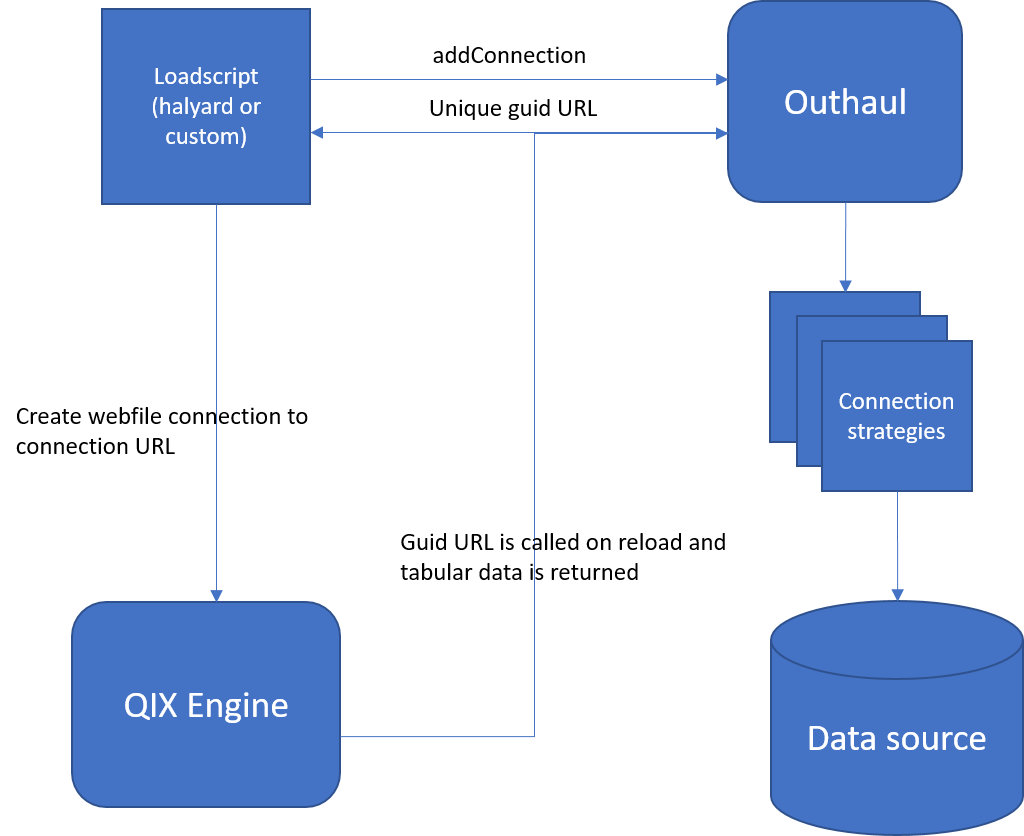
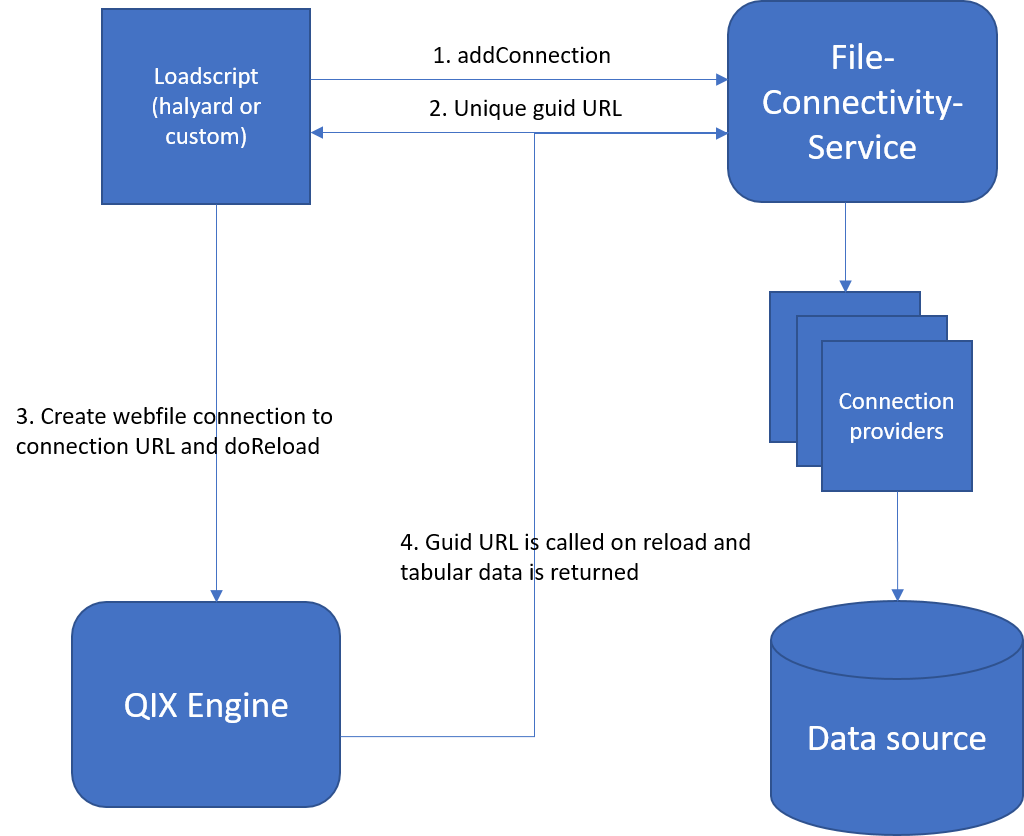
Rename (#61)
* Renamed strategies to providers

* added updated flow chart

diff --git a/src/outhaul.js b/src/outhaul.js
@@ -23,23 +23,23 @@ function outhaul(options) {
     port,
   } = options;
 
-  const strategies = [];
+  const providers = [];
 
   const authenticationCallback = '/oauth2/callback';
 
-  options.strategies.forEach((strategy) => {
-    if (strategy.getName) {
-      strategies[strategy.getName()] = strategy;
-      if (strategy.setupPassportStrategy) {
+  options.providers.forEach((provider) => {
+    if (provider.getName) {
+      providers[provider.getName()] = provider;
+      if (provider.setupPassportStrategy) {
         const callbackUrl = `http://localhost:3000/v1${authenticationCallback}`; // Refactor!!!,
-        const passportStrategy = strategy.setupPassportStrategy(callbackUrl);
+        const passportStrategy = provider.setupPassportStrategy(callbackUrl);
 
         if (passportStrategy) {
           passport.use(passportStrategy);
         }
       }
     } else {
-      logger.warn(`Failed to add strategy: ${strategy}`);
+      logger.warn(`Failed to add provider: ${provider}`);
     }
   });
 
@@ -192,10 +192,10 @@ function outhaul(options) {
     const input = ctx.request.body;
 
     if (input.connector) {
-      if (strategies[input.connector]) {
-        logger.debug('connector match ', strategies[input.connector]);
+      if (providers[input.connector]) {
+        logger.debug('connector match ', providers[input.connector]);
 
-        const connection = strategies[input.connector].newConnector(input.params);
+        const connection = providers[input.connector].newConnector(input.params);
 
         logger.debug('connection ', connection);
 

diff --git a/src/index.js b/src/index.js
@@ -4,22 +4,22 @@ const path = require('path');
 
 const logger = require('./logger').get();
 
-const strategies = [];
+const providers = [];
 
 // TODO: Make strategies path configurable with environment variable to enable the container to mount a volume of strategies
 
-const strategiesFolderPath = path.resolve(__dirname, 'strategies');
+const providersFolderPath = path.resolve(__dirname, 'providers');
 
-logger.info(`Strategies path ${strategiesFolderPath}`);
+logger.info(`Providers path ${providersFolderPath}`);
 
-fs.readdirSync(strategiesFolderPath).forEach((file) => {
-  const fullStrategyPath = path.join(strategiesFolderPath, file, file);
-  logger.info(`Using strategy ${fullStrategyPath}`);
-  const Strategy = require(fullStrategyPath)// eslint-disable-line
-  strategies.push(new Strategy());
+fs.readdirSync(providersFolderPath).forEach((file) => {
+  const fullProviderPath = path.join(providersFolderPath, file, file);
+  logger.info(`Using strategy ${fullProviderPath}`);
+  const Provider = require(fullProviderPath)// eslint-disable-line
+  providers.push(new Provider());
 });
 
-const outhaul = Outhaul({ port: 3000, strategies });
+const outhaul = Outhaul({ port: 3000, providers });
 
 outhaul.start();
 

diff --git a/test/component/outhaul.spec.js b/test/component/outhaul.spec.js
@@ -1,14 +1,14 @@
 const Outhaul = require('../../src/outhaul.js');
 const request = require('supertest');
 
-const Mock = require('./strategies/mock');
-const MockWithLocalPassportStrategy = require('./strategies/mock-with-local-passport');
+const Mock = require('./providers/mock');
+const MockWithLocalPassportProvider = require('./providers/mock-with-local-passport');
 
 const returnData = 'mock data';
 
-const strategies = [
+const providers = [
   new Mock(returnData),
-  new MockWithLocalPassportStrategy(returnData, 'admin', 'password'),
+  new MockWithLocalPassportProvider(returnData, 'admin', 'password'),
 ];
 
 let outhaul;
@@ -16,7 +16,7 @@ let outhaul;
 beforeEach(() => {
   outhaul = Outhaul({
     port: 3000,
-    strategies,
+    providers,
   });
   outhaul.start();
 });
@@ -104,7 +104,7 @@ describe('outhaul', () => {
         });
     });
 
-    it.skip('should be possible to authenticate with local passport strategy', async () => {
+    it.skip('should be possible to authenticate with local passport provider', async () => {
       const res = await request(url).post('/connections')
         .send({
           connector: 'MockWithLocalPassport',

diff --git a/src/providers/onedrive/onedrive.js b/src/providers/onedrive/onedrive.js
@@ -1,13 +1,13 @@
 const OneDrivePassportStrategy = require('passport-onedrive').Strategy;
 const request = require('request-promise-native');
 
-const OAuth2Strategy = require('../../oauth2-strategy');
+const OAuth2Provider = require('../../oauth2-provider');
 const ConnectionBase = require('../../connection-base');
 const logger = require('../../logger').get();
 
 class OneDrive extends ConnectionBase {
-  constructor(strategy, settings) {
-    super(strategy, settings);
+  constructor(provider, settings) {
+    super(provider, settings);
     this.fileName = settings.fileName;
   }
 
@@ -22,7 +22,7 @@ class OneDrive extends ConnectionBase {
   }
 }
 
-class OneDriveStrategy extends OAuth2Strategy {
+class OneDriveProvider extends OAuth2Provider {
   constructor() {
     const clientId = process.env.ONE_DRIVE_CLIENT_ID;
     const clientSecret = process.env.ONE_DRIVE_CLIENT_SECRET;
@@ -37,4 +37,4 @@ class OneDriveStrategy extends OAuth2Strategy {
   }
 }
 
-module.exports = OneDriveStrategy;
+module.exports = OneDriveProvider;

diff --git a/src/providers/googledrive/googledrive.js b/src/providers/googledrive/googledrive.js
@@ -1,12 +1,12 @@
 const GoogleDrivePassportStrategy = require('passport-google-oauth20').Strategy;
 const request = require('request-promise-native');
 
-const OAuth2Strategy = require('../../oauth2-strategy');
+const OAuth2Provider = require('../../oauth2-provider');
 const ConnectionBase = require('../../connection-base');
 
 class GoogleDrive extends ConnectionBase {
-  constructor(strategy, settings) {
-    super(strategy, settings);
+  constructor(provider, settings) {
+    super(provider, settings);
     this.fileName = settings.fileName;
   }
 
@@ -33,7 +33,7 @@ class GoogleDrive extends ConnectionBase {
   }
 }
 
-class GoogleDriveStrategy extends OAuth2Strategy {
+class GoogleDriveProvider extends OAuth2Provider {
   constructor() {
     const clientId = process.env.GOOGLE_DRIVE_CLIENT_ID;
     const clientSecret = process.env.GOOGLE_DRIVE_CLIENT_SECRET;
@@ -48,4 +48,4 @@ class GoogleDriveStrategy extends OAuth2Strategy {
   }
 }
 
-module.exports = GoogleDriveStrategy;
+module.exports = GoogleDriveProvider;

diff --git a/src/providers/dropbox/dropbox.js b/src/providers/dropbox/dropbox.js
@@ -1,12 +1,12 @@
 const DropboxOAuth2Strategy = require('passport-dropbox-oauth2').Strategy;
 const request = require('request');
 
-const OAuth2Strategy = require('../../oauth2-strategy');
+const OAuth2Provider = require('../../oauth2-provider');
 const ConnectionBase = require('../../connection-base');
 
 class Dropbox extends ConnectionBase {
-  constructor(strategy, settings) {
-    super(strategy, settings);
+  constructor(provider, settings) {
+    super(provider, settings);
     this.filePath = settings.filePath;
   }
 
@@ -21,7 +21,7 @@ class Dropbox extends ConnectionBase {
   }
 }
 
-class DropboxStrategy extends OAuth2Strategy {
+class DropboxProvider extends OAuth2Provider {
   constructor() {
     const clientId = process.env.DROPBOX_CLIENT_ID;
     const clientSecret = process.env.DROPBOX_CLIENT_SECRET;
@@ -39,4 +39,4 @@ class DropboxStrategy extends OAuth2Strategy {
   }
 }
 
-module.exports = DropboxStrategy;
+module.exports = DropboxProvider;

diff --git a/test/component/providers/mock-with-local-passport.js b/test/component/providers/mock-with-local-passport.js
@@ -1,11 +1,11 @@
 const LocalStrategy = require('passport-local').Strategy;
 
-const OAuth2Strategy = require('../../../src/oauth2-strategy');
+const OAuth2Provider = require('../../../src/oauth2-provider');
 const ConnectionBase = require('../../../src/connection-base');
 
 class MockWithLocalPassport extends ConnectionBase {
-  constructor(strategy, settings) {
-    super(strategy, settings);
+  constructor(provider, settings) {
+    super(provider, settings);
     this.returnData = settings.returnData;
     this.name = 'MockWithLocalPassport';
   }
@@ -15,7 +15,7 @@ class MockWithLocalPassport extends ConnectionBase {
   }
 }
 
-class MockWithLocalPassportStrategy extends OAuth2Strategy {
+class MockWithLocalPassportStrategy extends OAuth2Provider {
   constructor(returnData, clientId, clientSecret) {
     super('MockWithLocalPassport', LocalStrategy, clientId, clientSecret);
     this.connector = MockWithLocalPassport;

diff --git a/src/providers/s3/s3.js b/src/providers/s3/s3.js
@@ -2,8 +2,8 @@ const AWS = require('aws-sdk');
 const ConnectionBase = require('../../connection-base');
 
 class S3 extends ConnectionBase {
-  constructor(strategy, settings) {
-    super(strategy, settings.accessKeyId);
+  constructor(provider, settings) {
+    super(provider, settings.accessKeyId);
     this.accessKeyId = settings.accessKeyId;
     this.secretAccessKey = settings.secretAccessKey;
     this.bucketName = settings.bucketName;
@@ -33,7 +33,7 @@ class S3 extends ConnectionBase {
   }
 }
 
-class S3Strategy {
+class S3Provider {
   getName() { // eslint-disable-line
     return 'S3';
   }
@@ -43,4 +43,4 @@ class S3Strategy {
   }
 }
 
-module.exports = S3Strategy;
+module.exports = S3Provider;

diff --git a/examples/googledrive.js b/examples/googledrive.js
@@ -1,17 +1,17 @@
 const Outhaul = require('../src/outhaul.js');
 const request = require('supertest'); // eslint-disable-line import/no-extraneous-dependencies
 
-const GoogleDriveStrategy = require('../src/strategies/googledrive/googledrive.js');
+const GoogleDriveProvider = require('../src/providers/googledrive/googledrive.js');
 const logger = require('../src/logger').get();
 
 async function run() {
-  const strategies = [
-    new GoogleDriveStrategy(),
+  const providers = [
+    new GoogleDriveProvider(),
   ];
 
   const outhaul = Outhaul({
     port: 3000,
-    strategies,
+    providers,
   });
 
   outhaul.start();

diff --git a/src/connection-base.js b/src/connection-base.js
@@ -1,9 +1,9 @@
 const uuid = require('uuid/v1');
 
 class ConnectionBase {
-  constructor(strategy, settings) {
+  constructor(provider, settings) {
     this.id = uuid();
-    this.strategy = strategy;
+    this.provider = provider;
     this.accessToken = settings.accessToken;
   }
 
@@ -20,12 +20,12 @@ class ConnectionBase {
     return this.accessToken;
   }
 
-  getStrategy() {
-    return this.strategy;
+  getProvider() {
+    return this.provider;
   }
 
   getPassportStrategyName() {
-    return this.strategy.getPassportStrategyName();
+    return this.provider.getPassportStrategyName();
   }
 }
 

diff --git a/examples/onedrive.js b/examples/onedrive.js
@@ -1,17 +1,17 @@
 const Outhaul = require('../src/outhaul.js');
 const request = require('supertest'); // eslint-disable-line import/no-extraneous-dependencies
 
-const OneDriveStrategy = require('../src/strategies/onedrive/onedrive.js');
+const OneDriveProvider = require('../src/providers/onedrive/onedrive.js');
 const logger = require('../src/logger').get();
 
 async function run() {
-  const strategies = [
-    new OneDriveStrategy(),
+  const providers = [
+    new OneDriveProvider(),
   ];
 
   const outhaul = Outhaul({
     port: 3000,
-    strategies,
+    providers,
   });
 
   outhaul.start();

diff --git a/examples/dropbox.js b/examples/dropbox.js
@@ -1,17 +1,17 @@
 const Outhaul = require('../src/outhaul.js');
 const request = require('supertest'); // eslint-disable-line import/no-extraneous-dependencies
 
-const DropboxStrategy = require('../src/strategies/dropbox/dropbox.js');
+const DropboxProvider = require('../src/providers/dropbox/dropbox.js');
 const logger = require('../src/logger').get();
 
 async function run() {
-  const strategies = [
-    new DropboxStrategy(),
+  const providers = [
+    new DropboxProvider(),
   ];
 
   const outhaul = Outhaul({
     port: 3000,
-    strategies,
+    providers,
   });
 
   outhaul.start();
